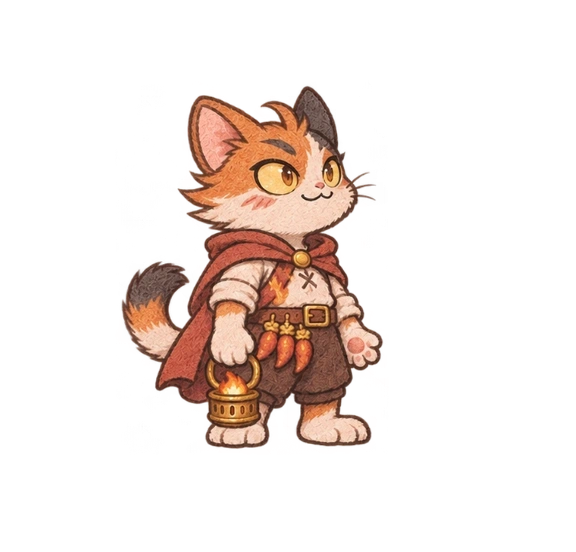
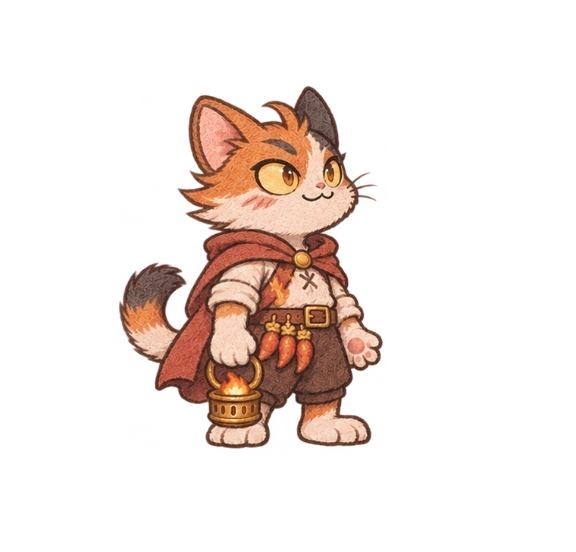
Release v0.21.2 with refined Spark idle breathing and refreshed asset cache

diff --git a/motion.html b/motion.html
@@ -1,1 +1,1 @@
-<!doctype html><html lang="zh-CN" data-gallery="true"><meta charset="UTF-8"><meta name="viewport" content="width=device-width,initial-scale=1"><meta name="theme-color" content="#293E46"><title>动作图鉴 · 罐头远征队</title><style>*{box-sizing:border-box}body{margin:0;background:#FCF7EA;color:#344E53;font:15px system-ui,-apple-system,sans-serif}main{max-width:1000px;margin:auto;padding:30px 18px 70px}header{display:flex;align-items:center;justify-content:space-between;gap:16px}header small{font-size:11px;color:#8A9B8C;letter-spacing:.08em}a{color:#628476;font-size:13px}h1{font-size:28px;margin:12px 0;font-weight:700}p{color:#8A9989;line-height:1.8;font-size:13px}.controls{position:sticky;top:0;background:#FCF7EA;padding:15px 0;z-index:2;display:flex;gap:8px;flex-wrap:wrap}button{border:0;background:#EAF0E5;color:#7D9576;padding:10px 18px;border-radius:8px;font:inherit;font-size:13px;cursor:pointer}button[aria-pressed=true]{background:#385D59;color:#F9F3E2}h2{margin:28px 0 16px;font-size:17px;font-weight:650}.grid{display:grid;grid-template-columns:repeat(4,1fr);gap:14px}.card{border:0;border-radius:12px;background:#EDF1E8;text-align:center;padding:15px 7px}.card:nth-child(4n+2){background:#EAF0F3}.card:nth-child(4n+3){background:#F5EBE5}.card:nth-child(4n){background:#F5EFDF}.sprite{height:180px;max-width:210px;margin:auto}.sprite svg{width:100%;height:100%;display:block}.card b{display:block;margin:8px 0 4px;color:#415D5B;font-size:15px;font-weight:650}.card small{color:#8D9F8B;font-size:11px}.controls #motion-status{align-self:center;margin-left:auto;color:#b6c7bd;font-size:11px}.note{font-size:12px}@media(max-width:600px){.grid{grid-template-columns:repeat(2,1fr);gap:10px}.sprite{height:150px}h1{font-size:24px}button{padding:10px 14px}}</style><link rel="stylesheet" href="painted-motion.css?v=0.21.1"><link rel="stylesheet" href="painted-fx.css?v=0.21.1"><link rel="stylesheet" href="vibrant.css?v=0.21.1"><main><header><div><small>罐头远征队 / 暮色手绘版 0.19.2</small><h1>伙伴动作图鉴</h1></div><nav><a href="effects.html">招式与特效</a> · <a href="./">回到游戏 ›</a></nav></header><p>抬手、挥出、收回。八位伙伴的普通攻击默认循环播放，可切换技能和表情查看，不影响游戏进度。</p><div class="controls"><button data-kind="normal" aria-pressed="true">普攻</button><button data-kind="skill" aria-pressed="false">技能</button><button data-kind="hit" aria-pressed="false">受击</button><button data-kind="idle" aria-pressed="false">待机</button><button data-kind="charge" aria-pressed="false">蓄力</button><button data-kind="down" aria-pressed="false">退场</button><label class="face-control">表情 <select id="face-preview"><option value="">随动作变化</option><option value="neutral">平静</option><option value="blink">眨眼</option><option value="attack">攻击 · 平静专注</option><option value="skill">施法</option><option value="hurt">受击</option><option value="victory">胜利</option><option value="down">退场</option></select></label><button id="pause">暂停</button><span id="motion-status" role="status">连续播放中</span></div><h2>8 位伙伴</h2><section class="grid" id="crew"></section><h2>街头对手</h2><section class="grid" id="foes"></section><p class="note">待机、起手、出招、技能、受击和退场连续衔接。近战位移与技能弹体请回到游戏查看；这里可单独检查每位伙伴和对手的动作。</p></main><script type="module" src="motion-gallery.mjs?v=0.21.1"></script></html>
+<!doctype html><html lang="zh-CN" data-gallery="true"><meta charset="UTF-8"><meta name="viewport" content="width=device-width,initial-scale=1"><meta name="theme-color" content="#293E46"><title>动作图鉴 · 罐头远征队</title><style>*{box-sizing:border-box}body{margin:0;background:#FCF7EA;color:#344E53;font:15px system-ui,-apple-system,sans-serif}main{max-width:1000px;margin:auto;padding:30px 18px 70px}header{display:flex;align-items:center;justify-content:space-between;gap:16px}header small{font-size:11px;color:#8A9B8C;letter-spacing:.08em}a{color:#628476;font-size:13px}h1{font-size:28px;margin:12px 0;font-weight:700}p{color:#8A9989;line-height:1.8;font-size:13px}.controls{position:sticky;top:0;background:#FCF7EA;padding:15px 0;z-index:2;display:flex;gap:8px;flex-wrap:wrap}button{border:0;background:#EAF0E5;color:#7D9576;padding:10px 18px;border-radius:8px;font:inherit;font-size:13px;cursor:pointer}button[aria-pressed=true]{background:#385D59;color:#F9F3E2}h2{margin:28px 0 16px;font-size:17px;font-weight:650}.grid{display:grid;grid-template-columns:repeat(4,1fr);gap:14px}.card{border:0;border-radius:12px;background:#EDF1E8;text-align:center;padding:15px 7px}.card:nth-child(4n+2){background:#EAF0F3}.card:nth-child(4n+3){background:#F5EBE5}.card:nth-child(4n){background:#F5EFDF}.sprite{height:180px;max-width:210px;margin:auto}.sprite svg{width:100%;height:100%;display:block}.card b{display:block;margin:8px 0 4px;color:#415D5B;font-size:15px;font-weight:650}.card small{color:#8D9F8B;font-size:11px}.controls #motion-status{align-self:center;margin-left:auto;color:#b6c7bd;font-size:11px}.note{font-size:12px}@media(max-width:600px){.grid{grid-template-columns:repeat(2,1fr);gap:10px}.sprite{height:150px}h1{font-size:24px}button{padding:10px 14px}}</style><link rel="stylesheet" href="painted-motion.css?v=0.21.2"><link rel="stylesheet" href="painted-fx.css?v=0.21.2"><link rel="stylesheet" href="vibrant.css?v=0.21.2"><main><header><div><small>罐头远征队 / 暮色手绘版 0.19.2</small><h1>伙伴动作图鉴</h1></div><nav><a href="effects.html">招式与特效</a> · <a href="./">回到游戏 ›</a></nav></header><p>抬手、挥出、收回。八位伙伴的普通攻击默认循环播放，可切换技能和表情查看，不影响游戏进度。</p><div class="controls"><button data-kind="normal" aria-pressed="true">普攻</button><button data-kind="skill" aria-pressed="false">技能</button><button data-kind="hit" aria-pressed="false">受击</button><button data-kind="idle" aria-pressed="false">待机</button><button data-kind="charge" aria-pressed="false">蓄力</button><button data-kind="down" aria-pressed="false">退场</button><label class="face-control">表情 <select id="face-preview"><option value="">随动作变化</option><option value="neutral">平静</option><option value="blink">眨眼</option><option value="attack">攻击 · 平静专注</option><option value="skill">施法</option><option value="hurt">受击</option><option value="victory">胜利</option><option value="down">退场</option></select></label><button id="pause">暂停</button><span id="motion-status" role="status">连续播放中</span></div><h2>8 位伙伴</h2><section class="grid" id="crew"></section><h2>街头对手</h2><section class="grid" id="foes"></section><p class="note">待机、起手、出招、技能、受击和退场连续衔接。近战位移与技能弹体请回到游戏查看；这里可单独检查每位伙伴和对手的动作。</p></main><script type="module" src="motion-gallery.mjs?v=0.21.2"></script></html>

diff --git a/effects.html b/effects.html
@@ -1,4 +1,4 @@
 <!doctype html><html lang="zh-CN" data-gallery="true"><meta charset="utf-8"><meta name="viewport" content="width=device-width,initial-scale=1"><meta name="theme-color" content="#293E46"><title>招式与特效 · 罐头远征队</title>
-<link rel="stylesheet" href="style.css?v=0.21.1"><link rel="stylesheet" href="flat.css?v=0.21.1"><link rel="stylesheet" href="painted.css?v=0.21.1"><link rel="stylesheet" href="battle-layout.css?v=0.21.1"><link rel="stylesheet" href="painted-fx.css?v=0.21.1">
+<link rel="stylesheet" href="style.css?v=0.21.2"><link rel="stylesheet" href="flat.css?v=0.21.2"><link rel="stylesheet" href="painted.css?v=0.21.2"><link rel="stylesheet" href="battle-layout.css?v=0.21.2"><link rel="stylesheet" href="painted-fx.css?v=0.21.2">
 <style>html,body{height:auto;min-height:100%;overflow:auto}body{display:block;margin:0;padding:24px 16px;background:#293e46;color:#d9d5bc;font:14px system-ui,sans-serif}main{max-width:720px;margin:auto}header{display:flex;align-items:center;justify-content:space-between;gap:12px}header small{color:#a9c2b7;font-size:11px}h1{font-size:25px;margin:9px 0 16px;color:#e1cba4}p{line-height:1.8;color:#b1c6bb;font-size:12px}a{color:#d7bf91;text-decoration:none}nav{display:flex;flex-wrap:wrap;gap:7px;margin:20px 0 15px}nav button,#pause,#replay,#phase,#crowd,#rate,#action{font:inherit;color:#ced6bf;background:#3d5957;border:1px solid #70877b;border-radius:8px;padding:9px 11px}nav button[aria-pressed=true]{background:#9b845d;color:#f4e4bf;border-color:#cab183}#arena{position:relative;isolation:isolate;height:360px;min-height:0;flex:none;border:1px solid #71877c;border-radius:14px;overflow:hidden;--unit-size:72px}#actors,#combat-effects{position:absolute;inset:0}#arena .actor{width:70px}#arena .actor .nameplate{font-size:10px;line-height:14px}#arena .hp-track{width:45px}#demo-readout{min-height:44px;margin-top:14px;padding:12px 14px;background:#344e51;border:1px dashed #617970;border-radius:10px;color:#cfdbbb;line-height:1.8}footer{display:flex;flex-wrap:wrap;justify-content:space-between;align-items:center;gap:14px;margin-top:16px;color:#a8bfb6;font-size:11px}@media(max-width:500px){body{padding:18px 12px}#arena{height:300px;--unit-size:58px}h1{font-size:23px}nav button{font-size:12px;padding:9px 10px}}</style>
-<link rel="stylesheet" href="vibrant.css?v=0.21.1"><main><header><div><small>罐头远征队 · 0.19.2</small><h1>招式与特效</h1></div><a href="./?v=0.21.1">回到游戏 ›</a></header><p>选择伙伴，分别查看普攻和技能。怪物攻击只分近战与远程；可定格细看，不影响游戏存档。</p><nav id="skills" aria-label="选择角色或攻击"></nav><div id="arena" class="arena"><div id="scene"></div><div id="combat-effects"></div><div id="actors"></div></div><div id="demo-readout" role="status"></div><footer><label>招式 <select id="action" aria-label="伙伴招式"><option value="normal">普攻</option><option value="skill" selected>技能</option></select></label><label>细看 <select id="phase" aria-label="查看特效阶段"><option value="play">连续播放</option><option value="windup">施法</option><option value="flight">飞行</option><option value="impact">命中与生效</option><option value="healing">治疗展开</option><option value="later">承伤与后续</option></select></label><label>阵容 <select id="crowd" aria-label="试映阵容"><option value="full">五对五</option><option value="single">单目标</option></select></label><label>速度 <select id="rate" aria-label="特效播放速度"><option value="1">一倍速</option><option value="0.5">半速细看</option></select></label><button id="replay">重播</button><button id="pause">暂停</button></footer></main><script type="module" src="effects-gallery.mjs?v=0.21.1"></script></html>
+<link rel="stylesheet" href="vibrant.css?v=0.21.2"><main><header><div><small>罐头远征队 · 0.19.2</small><h1>招式与特效</h1></div><a href="./?v=0.21.2">回到游戏 ›</a></header><p>选择伙伴，分别查看普攻和技能。怪物攻击只分近战与远程；可定格细看，不影响游戏存档。</p><nav id="skills" aria-label="选择角色或攻击"></nav><div id="arena" class="arena"><div id="scene"></div><div id="combat-effects"></div><div id="actors"></div></div><div id="demo-readout" role="status"></div><footer><label>招式 <select id="action" aria-label="伙伴招式"><option value="normal">普攻</option><option value="skill" selected>技能</option></select></label><label>细看 <select id="phase" aria-label="查看特效阶段"><option value="play">连续播放</option><option value="windup">施法</option><option value="flight">飞行</option><option value="impact">命中与生效</option><option value="healing">治疗展开</option><option value="later">承伤与后续</option></select></label><label>阵容 <select id="crowd" aria-label="试映阵容"><option value="full">五对五</option><option value="single">单目标</option></select></label><label>速度 <select id="rate" aria-label="特效播放速度"><option value="1">一倍速</option><option value="0.5">半速细看</option></select></label><button id="replay">重播</button><button id="pause">暂停</button></footer></main><script type="module" src="effects-gallery.mjs?v=0.21.2"></script></html>

diff --git a/index.html b/index.html
@@ -1,5 +1,5 @@
-<!doctype html><html lang="zh-CN"><head><meta charset="utf-8"><meta name="viewport" content="width=device-width,initial-scale=1,viewport-fit=cover"><meta name="theme-color" content="#365C64"><meta name="description" content="带上五只猫，拿下一条街。原创轻量放置冒险：自动战斗、阵容搭配、首领战利品和离线鱼摊。"><link rel="icon" href="icon.svg" type="image/svg+xml"><link rel="manifest" href="manifest.webmanifest"><link rel="stylesheet" href="style.css?v=0.21.1"><link rel="stylesheet" href="flat.css?v=0.21.1"><link rel="stylesheet" href="painted.css?v=0.21.1"><link rel="stylesheet" href="battle-layout.css?v=0.21.1"><link rel="stylesheet" href="painted-fx.css?v=0.21.1"><link rel="stylesheet" href="vibrant.css?v=0.21.1"><link rel="stylesheet" href="crew-profile.css?v=0.21.1"><title>罐头远征队 · 猫猫放置冒险</title></head><body>
-<div class="desktop-copy"><div class="studio">MIDNIGHT CAN CLUB</div><h1>罐头<br><span>远征队</span></h1><p>带上五只猫，<br>拿下一条街。</p><div id="desktop-cat"></div><div class="desktop-note">自动出击 · 自由搭配<br>累了就歇会儿，鱼摊还在营业。</div><span class="build-label">手绘街区版 0.21.1 · 本机存档</span></div>
+<!doctype html><html lang="zh-CN"><head><meta charset="utf-8"><meta name="viewport" content="width=device-width,initial-scale=1,viewport-fit=cover"><meta name="theme-color" content="#365C64"><meta name="description" content="带上五只猫，拿下一条街。原创轻量放置冒险：自动战斗、阵容搭配、首领战利品和离线鱼摊。"><link rel="icon" href="icon.svg" type="image/svg+xml"><link rel="manifest" href="manifest.webmanifest"><link rel="stylesheet" href="style.css?v=0.21.2"><link rel="stylesheet" href="flat.css?v=0.21.2"><link rel="stylesheet" href="painted.css?v=0.21.2"><link rel="stylesheet" href="battle-layout.css?v=0.21.2"><link rel="stylesheet" href="painted-fx.css?v=0.21.2"><link rel="stylesheet" href="vibrant.css?v=0.21.2"><link rel="stylesheet" href="crew-profile.css?v=0.21.2"><title>罐头远征队 · 猫猫放置冒险</title></head><body>
+<div class="desktop-copy"><div class="studio">MIDNIGHT CAN CLUB</div><h1>罐头<br><span>远征队</span></h1><p>带上五只猫，<br>拿下一条街。</p><div id="desktop-cat"></div><div class="desktop-note">自动出击 · 自由搭配<br>累了就歇会儿，鱼摊还在营业。</div><span class="build-label">手绘街区版 0.21.2 · 本机存档</span></div>
 <div class="game-shell"><header class="topbar"><div class="brand"><span class="brand-symbol" id="brand-symbol"></span><div><b>罐头远征队</b><small>CAN CLUB</small></div></div><button class="round-btn" id="settings" aria-label="设置与存档"></button></header>
 <div class="resourcebar"><div class="currency"><span id="coin-icon"></span><b id="gold">200</b><span>鱼币</span></div><div class="currency bones"><span id="bone-icon"></span><b id="bones">0</b><span>鱼骨</span></div><button id="quests" class="quest-btn" aria-label="成长清单"><span id="quest-icon"></span><i id="quest-dot" hidden></i></button></div>
 <main id="main"><section id="battle-view"><div class="chapterbar"><div><span class="chapter-kicker" id="chapter-kicker">CHAPTER 01 / 06</span><h2 id="chapter-name">晒鱼天台</h2></div><button class="stage-chip" id="stage-map" aria-label="查看街区关卡">第 <b id="stage-number">1</b> 关 <span>›</span></button></div><div class="chapter-track" id="chapter-track"></div>
@@ -15,4 +15,4 @@
 </div>
 <div class="desktop-guide"><span class="tiny-label">TONIGHT'S LITTLE ADVENTURE</span><h2>白天睡觉。<br>今晚出道。</h2><div class="guide-stamp"><b>120</b><span>个街头关卡</span></div><div class="guide-item"><b>01</b><span>自动交手<br><small>前排优先承伤，后排输出支援。</small></span></div><div class="guide-item"><b>02</b><span>开罐破招<br><small>全队回血、攻击敌人、打断蓄力。</small></span></div><div class="guide-item"><b>03</b><span>满载而归<br><small>每五关，挑一件全队装备。</small></span></div><p>没有体力限制。<br>没有随机付费抽卡。<br>按自己的节奏，慢慢变强。</p></div>
 <div id="modal-backdrop" class="modal-backdrop" hidden><section id="modal" class="modal" role="dialog" aria-modal="true" aria-labelledby="modal-title" tabindex="-1"><button class="modal-close" id="modal-close" aria-label="关闭弹窗"></button><div id="modal-content"></div></section></div>
-<noscript>请使用支持 JavaScript 的浏览器打开游戏。</noscript><script type="module" src="app.mjs?v=0.21.1"></script></body></html>
+<noscript>请使用支持 JavaScript 的浏览器打开游戏。</noscript><script type="module" src="app.mjs?v=0.21.2"></script></body></html>

diff --git a/spark.html b/spark.html
@@ -1,3 +1,3 @@
 <!doctype html><html lang="zh-CN"><head><meta charset="utf-8"><meta name="viewport" content="width=device-width,initial-scale=1,viewport-fit=cover"><meta name="theme-color" content="#29434a"><title>火花 · 罐头远征队</title><style>
 *{box-sizing:border-box}body{margin:0;background:#243b42;color:#f8ead1;font:15px system-ui,sans-serif;min-height:100dvh}main{width:min(100%,640px);margin:auto;padding:22px 20px calc(26px + env(safe-area-inset-bottom))}header{display:flex;align-items:center;justify-content:space-between}small{color:#bdc8ba;letter-spacing:.12em}h1{font-size:30px;margin:10px 0 0}a{color:#edd09b;text-decoration:none}p{color:#c5ccc1;line-height:1.6;font-size:13px;margin:10px 0}.stage{position:relative;margin-top:18px;border-radius:24px;background:radial-gradient(ellipse at 50% 66%,#55726966 0,transparent 60%),linear-gradient(#324f56,#2b454b);overflow:hidden}.stage:after{content:"";position:absolute;left:29%;right:29%;bottom:15.5%;height:4%;border-radius:50%;background:#172b31aa;filter:blur(5px)}canvas{display:block;width:100%;aspect-ratio:144/138;position:relative;z-index:1}.stage-label{position:absolute;left:18px;top:16px;font-size:12px;color:#d7c9a8;z-index:2}.controls{display:flex;gap:8px;flex-wrap:wrap;margin-top:14px}button,select{font:inherit;background:#35545b;color:#f8ead1;border:1px solid #74877c;border-radius:10px;padding:10px 14px;touch-action:manipulation}button[aria-pressed="true"]{background:#b18d56;color:#fff7e5;border-color:#d6b678}input{width:100%;margin-top:20px;accent-color:#d7ad67}footer{margin-top:18px;border-top:1px solid #ffffff14;padding-top:14px;display:flex;justify-content:space-between;align-items:center;font-size:12px;color:#b8c5b9}label{display:flex;align-items:center;gap:8px;font-size:12px;color:#c5ccc1}@media(max-width:350px){main{padding:18px 12px}button{padding:9px 10px}}
-</style></head><body><main><header><small>CAN CLUB / 伙伴</small><a href="./?v=0.21.1">回到游戏 ↗</a></header><h1>火花</h1><p>提灯的小小火焰术士。</p><section class="stage"><span class="stage-label" id="label">待机</span><canvas id="hero" width="864" height="828" aria-label="火花角色动画"></canvas></section><div class="controls" id="actions"><button data-action="demo" aria-pressed="true">完整动作</button><button data-action="idle" aria-pressed="false">待机</button><button data-action="normal" aria-pressed="false">普攻</button><button data-action="skill" aria-pressed="false">施法</button><button data-action="hit" aria-pressed="false">受击</button></div><div class="controls"><button id="pause">暂停</button><label>速度 <select id="speed"><option value="1">1 倍</option><option value="0.5">0.5 倍</option><option value="0.25">0.25 倍</option></select></label><label>表情 <select id="face"><option value="auto">自然变化</option><option value="neutral">平静</option><option value="blink">眨眼</option><option value="attack">专注</option><option value="hurt">受击</option><option value="victory">开心</option></select></label></div><input id="seek" type="range" min="0" max="8" step="0.016" value="0" aria-label="查看动作进度"><footer><span>右手提灯 · 左手空手</span><span>火花动作版 0.21.1</span></footer></main><script type="module" src="spark-preview.mjs?v=0.21.1"></script></body></html>
+</style></head><body><main><header><small>CAN CLUB / 伙伴</small><a href="./?v=0.21.2">回到游戏 ↗</a></header><h1>火花</h1><p>提灯的小小火焰术士。</p><section class="stage"><span class="stage-label" id="label">待机</span><canvas id="hero" width="864" height="828" aria-label="火花角色动画"></canvas></section><div class="controls" id="actions"><button data-action="demo" aria-pressed="true">完整动作</button><button data-action="idle" aria-pressed="false">待机</button><button data-action="normal" aria-pressed="false">普攻</button><button data-action="skill" aria-pressed="false">施法</button><button data-action="hit" aria-pressed="false">受击</button></div><div class="controls"><button id="pause">暂停</button><label>速度 <select id="speed"><option value="1">1 倍</option><option value="0.5">0.5 倍</option><option value="0.25">0.25 倍</option></select></label><label>表情 <select id="face"><option value="auto">自然变化</option><option value="neutral">平静</option><option value="blink">眨眼</option><option value="attack">专注</option><option value="hurt">受击</option><option value="victory">开心</option></select></label></div><input id="seek" type="range" min="0" max="8" step="0.016" value="0" aria-label="查看动作进度"><footer><span>右手提灯 · 左手空手</span><span>火花动作版 0.21.2</span></footer></main><script type="module" src="spark-preview.mjs?v=0.21.2"></script></body></html>

diff --git a/sw.js b/sw.js
@@ -1,5 +1,5 @@
-const CACHE='can-club-0.21.1';
-const ASSETS=['./finished-spark-data.mjs?v=0.21.1','./finished-spark-renderer.mjs?v=0.21.1','./assets/finished/spark-v0211.webp','./assets/finished/spark-portrait-v0211.webp','./crew-formation.mjs?v=0.21.1','./combat-stats.mjs?v=0.21.1','./crew-profile.mjs?v=0.21.1','./crew-profile.css?v=0.21.1','./can-timing.mjs?v=0.21.1','./can-fx.mjs?v=0.21.1','./assets/vfx/can-rescue-v0192.webp','./healing-fx.mjs?v=0.21.1','./vibrant.css?v=0.21.1','./assets/scenes/streets-v019.webp','./','./action-profiles.mjs?v=0.21.1','./anatomy-data.mjs?v=0.21.1','./anatomy-renderer.mjs?v=0.21.1','./expressions.mjs?v=0.21.1','./assets/anatomy/cats-a-v0200.webp','./assets/anatomy/cats-b.webp','./assets/anatomy/cats-c.webp','./assets/anatomy/cats-d.webp','./assets/anatomy/portraits-v0200.webp','./painted-fx.mjs?v=0.21.1','./painted-fx.css?v=0.21.1','./effects.html','./effects-gallery.mjs?v=0.21.1','./assets/vfx/effects.webp','./vfx-motion.mjs?v=0.21.1','./vfx-atlas.mjs?v=0.21.1','./index.html','./style.css?v=0.21.1','./flat.css?v=0.21.1','./painted.css?v=0.21.1','./core.mjs?v=0.21.1','./motion.mjs?v=0.21.1','./idle-motion.mjs?v=0.21.1','./rig-motion.mjs?v=0.21.1','./rig-renderer.mjs?v=0.21.1','./formation-motion.mjs?v=0.21.1','./battle-ui.mjs?v=0.21.1','./battle-cues.mjs?v=0.21.1','./battle-layout.css?v=0.21.1','./painted-art.mjs?v=0.21.1','./art.mjs?v=0.21.1','./app.mjs?v=0.21.1','./motion.html','./motion-gallery.mjs?v=0.21.1','./painted-motion.css?v=0.21.1','./icon.svg','./manifest.webmanifest','./assets/painted/enemies-a.webp','./assets/painted/enemies-b.webp','./assets/painted/enemies-c.webp','./assets/painted/items.webp'];
+const CACHE='can-club-0.21.2';
+const ASSETS=['./finished-spark-data.mjs?v=0.21.2','./finished-spark-renderer.mjs?v=0.21.2','./assets/finished/spark-v0211.webp','./assets/finished/spark-portrait-v0211.webp','./crew-formation.mjs?v=0.21.2','./combat-stats.mjs?v=0.21.2','./crew-profile.mjs?v=0.21.2','./crew-profile.css?v=0.21.2','./can-timing.mjs?v=0.21.2','./can-fx.mjs?v=0.21.2','./assets/vfx/can-rescue-v0192.webp','./healing-fx.mjs?v=0.21.2','./vibrant.css?v=0.21.2','./assets/scenes/streets-v019.webp','./','./action-profiles.mjs?v=0.21.2','./anatomy-data.mjs?v=0.21.2','./anatomy-renderer.mjs?v=0.21.2','./expressions.mjs?v=0.21.2','./assets/anatomy/cats-a-v0200.webp','./assets/anatomy/cats-b.webp','./assets/anatomy/cats-c.webp','./assets/anatomy/cats-d.webp','./assets/anatomy/portraits-v0200.webp','./painted-fx.mjs?v=0.21.2','./painted-fx.css?v=0.21.2','./effects.html','./effects-gallery.mjs?v=0.21.2','./assets/vfx/effects.webp','./vfx-motion.mjs?v=0.21.2','./vfx-atlas.mjs?v=0.21.2','./index.html','./style.css?v=0.21.2','./flat.css?v=0.21.2','./painted.css?v=0.21.2','./core.mjs?v=0.21.2','./motion.mjs?v=0.21.2','./idle-motion.mjs?v=0.21.2','./rig-motion.mjs?v=0.21.2','./rig-renderer.mjs?v=0.21.2','./formation-motion.mjs?v=0.21.2','./battle-ui.mjs?v=0.21.2','./battle-cues.mjs?v=0.21.2','./battle-layout.css?v=0.21.2','./painted-art.mjs?v=0.21.2','./art.mjs?v=0.21.2','./app.mjs?v=0.21.2','./motion.html','./motion-gallery.mjs?v=0.21.2','./painted-motion.css?v=0.21.2','./icon.svg','./manifest.webmanifest','./assets/painted/enemies-a.webp','./assets/painted/enemies-b.webp','./assets/painted/enemies-c.webp','./assets/painted/items.webp'];
 self.addEventListener('install',event=>event.waitUntil(caches.open(CACHE).then(cache=>cache.addAll(ASSETS)).then(()=>self.skipWaiting())));
 self.addEventListener('activate',event=>event.waitUntil(caches.keys().then(keys=>Promise.all(keys.filter(k=>k.startsWith('can-club-')&&k!==CACHE).map(k=>caches.delete(k)))).then(()=>self.clients.claim())));
 self.addEventListener('fetch',event=>{if(event.request.method!=='GET'||new URL(event.request.url).origin!==self.location.origin)return;event.respondWith(fetch(event.request).then(response=>{if(response.ok){const copy=response.clone();caches.open(CACHE).then(cache=>cache.put(event.request,copy));}return response;}).catch(()=>caches.match(event.request).then(hit=>hit||(event.request.mode==='navigate'?caches.match('./index.html'):Response.error()))));});

diff --git a/README.md b/README.md
@@ -1,3 +1,8 @@
+## v0.21.2 · 火花待机调整
+
+- 保留表情，待机统一为 3.8 秒呼吸；脚底固定，去掉整身摇摆，提灯、尾巴和披风轻微跟随。
+- 更新页面与离线缓存版本。
+
 ## v0.21.1 · 火花整身动作
 
 - 按火花成品参考重做整身关键姿势与过渡帧，右手固定提同一盏灯；待机有呼吸、尾巴和披风动态，表情跟随眨眼、攻击、受击与胜利。
